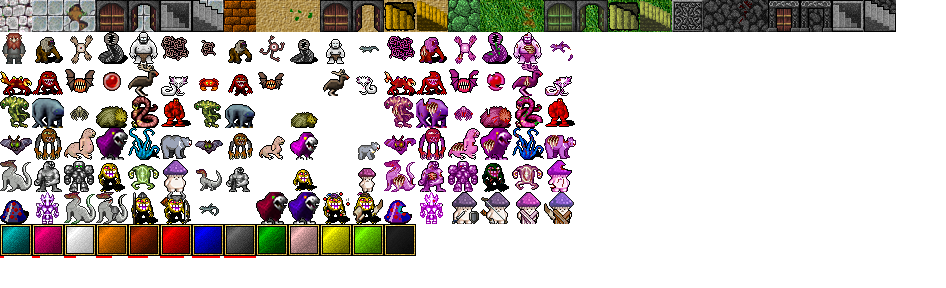
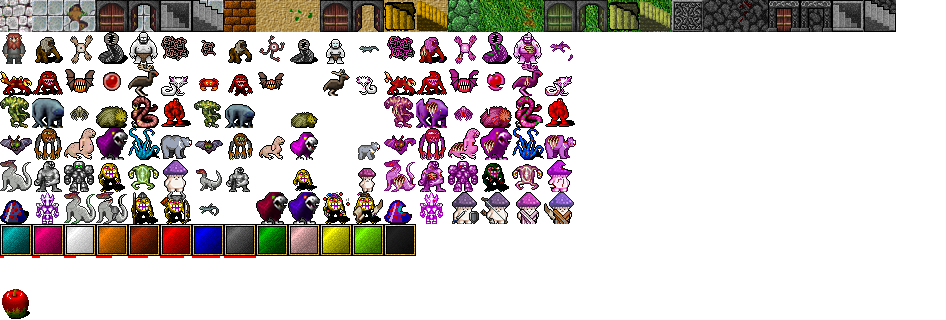
start to create items

diff --git a/assets/entities.js b/assets/entities.js
@@ -1,53 +1,4 @@
-var tileSet = document.createElement("img");
-tileSet.src = "assets/tiles.png";
 var terrains = ["dungeon", "sand", "jungle", "oldmaze"]
-var gameTilemap = {
-  "dungeonwall": [0, 0],
-  "dungeonfloor": [32, 0],
-  "dungeonfloorrandom": [64, 0],
-  "dungeondoorclose": [96, 0],
-  "dungeondooropen": [128, 0],
-  "dungeonstairdown": [160, 0],
-  "dungeonstairup": [192, 0],
-  "sandwall": [224, 0],
-  "sandfloor": [256, 0],
-  "sandfloorrandom": [288, 0],
-  "sanddoorclose": [320, 0],
-  "sanddooropen": [352, 0],
-  "sandstairdown": [384, 0],
-  "sandstairup": [416, 0],
-  "junglewall": [448, 0],
-  "junglefloor": [480, 0],
-  "junglefloorrandom": [512, 0],
-  "jungledoorclose": [544, 0],
-  "jungledooropen": [576, 0],
-  "junglestairdown": [608, 0],
-  "junglestairup": [640, 0],
-  "oldmazewall": [672, 0],
-  "oldmazefloor": [704, 0],
-  "oldmazefloorrandom": [736, 0],
-  "oldmazedoorclose": [768, 0],
-  "oldmazedooropen": [800, 0],
-  "oldmazestairdown": [832, 0],
-  "oldmazestairup": [864, 0],
-  "@": [0, 32],
-  "hp1": [0,256],
-  "hp2": [32,256],
-  "hp3": [64,256],
-  "hp4": [96,256],
-  "hp5": [128,256],
-  "hp6": [160,256],
-  "hp7": [192,256],
-  "hp8": [224,256],
-  "gorilla": [32, 32],
-  "flyingeye": [64, 32],
-  "leech": [96, 32],
-  "giant": [128, 32],
-  "tangleofworms": [160,32],
-  "worm": [192,32],
-  "whitesquare": [64,224],
-  "blanksquare": [384,224]
-};
 
 Game.EntityRepository = new Game.Repository('entities', Entity);
 

diff --git a/assets/tilemap.js b/assets/tilemap.js
@@ -1,0 +1,51 @@
+var tileSet = document.createElement("img");
+tileSet.src = "assets/tiles.png";
+var gameTilemap = {
+  "dungeonwall": [0, 0],
+  "dungeonfloor": [32, 0],
+  "dungeonfloorrandom": [64, 0],
+  "dungeondoorclose": [96, 0],
+  "dungeondooropen": [128, 0],
+  "dungeonstairdown": [160, 0],
+  "dungeonstairup": [192, 0],
+  "sandwall": [224, 0],
+  "sandfloor": [256, 0],
+  "sandfloorrandom": [288, 0],
+  "sanddoorclose": [320, 0],
+  "sanddooropen": [352, 0],
+  "sandstairdown": [384, 0],
+  "sandstairup": [416, 0],
+  "junglewall": [448, 0],
+  "junglefloor": [480, 0],
+  "junglefloorrandom": [512, 0],
+  "jungledoorclose": [544, 0],
+  "jungledooropen": [576, 0],
+  "junglestairdown": [608, 0],
+  "junglestairup": [640, 0],
+  "oldmazewall": [672, 0],
+  "oldmazefloor": [704, 0],
+  "oldmazefloorrandom": [736, 0],
+  "oldmazedoorclose": [768, 0],
+  "oldmazedooropen": [800, 0],
+  "oldmazestairdown": [832, 0],
+  "oldmazestairup": [864, 0],
+  "@": [0, 32],
+  "hp1": [0,256],
+  "hp2": [32,256],
+  "hp3": [64,256],
+  "hp4": [96,256],
+  "hp5": [128,256],
+  "hp6": [160,256],
+  "hp7": [192,256],
+  "hp8": [224,256],
+  "gorilla": [32, 32],
+  "flyingeye": [64, 32],
+  "leech": [96, 32],
+  "giant": [128, 32],
+  "tangleofworms": [160,32],
+  "worm": [192,32],
+  "whitesquare": [64,224],
+  "blanksquare": [384,224],
+  "greensquare": [352,224],
+  "apple": [0,288]
+};

diff --git a/assets/index.js b/assets/index.js
@@ -60,6 +60,9 @@ var Game = {
         scheduler.add(Game.entity[Game.entity.length - 1], true);
       }
     }
+    let newapple = Game.ItemRepository.create("apple");
+    Game.inventory.push(newapple);
+    Game.inventory.push(newapple);
     this.drawAll();
     this.engine = new ROT.Engine(scheduler);
     this.engine.start();
@@ -74,9 +77,19 @@ Game.drawBar = function() {
   var invpodsk = ['a', 'b', 'c', 'd', 'e', 'f', 'g', 'h', 'i', 'j', 'k', 'l', 'm', 'n', 'o', 'p'];
   for (let i = 0; i < 16; i++) {
     Game.podskazka.draw((i + Game.screenWidth - 16) * 4 + 2, 0, invpodsk[i], "beige");
-    Game.display.draw(i + Game.screenWidth - 16, Game.screenHeight, "blanksquare");
+    if (typeof Game.inventory[i] === 'undefined') {
+      Game.display.draw(i + Game.screenWidth - 16, Game.screenHeight, "blanksquare");
+    } else {
+      var itemtype = Game.inventory[i].type;
+      var _color = "blanksquare";
+      if (itemtype == "food") {
+        _color = "greensquare";
+      }
+      Game.display.draw(i + Game.screenWidth - 16, Game.screenHeight, [_color, Game.inventory[i].Symbol],["#0000", "#0000"]);
+    }
   }
 }
+
 
 Game.drawAll = function() {
   this.messages.clear();

diff --git a/index.html b/index.html
@@ -7,11 +7,14 @@
 <body bgcolor="black">
 	<script src="assets/rot.js"></script>
 	<script src="assets/config.js"></script>
+	<script src="assets/tilemap.js"></script>
 	<script src="assets/index.js"></script>
 	<script src="assets/map.js"></script>
 	<script src="assets/repository.js"></script>
 	<script src="assets/entity.js"></script>
 	<script src="assets/entities.js"></script>
 	<script src="assets/messages.js"></script>
+	<script src="assets/item.js"></script>
+	<script src="assets/items.js"></script>
 </body>
 </html>

diff --git a/assets/item.js b/assets/item.js
@@ -1,0 +1,9 @@
+Game.inventory = [];
+
+Item = function(properties) {
+  properties = properties || {};
+  this.name = properties['name'] || "";
+  this.options = properties['options'] || {};
+  this.Symbol = properties['Symbol'] || "apple";
+  this.type = properties['type'] || 'other';
+}

diff --git a/assets/items.js b/assets/items.js
@@ -1,0 +1,10 @@
+Game.ItemRepository = new Game.Repository('items', Item);
+
+Game.ItemRepository.define('apple', {
+  name: "apple",
+  Symbol: "apple",
+  type: "food",
+  options: {
+    foodValue: 50
+  }
+});
